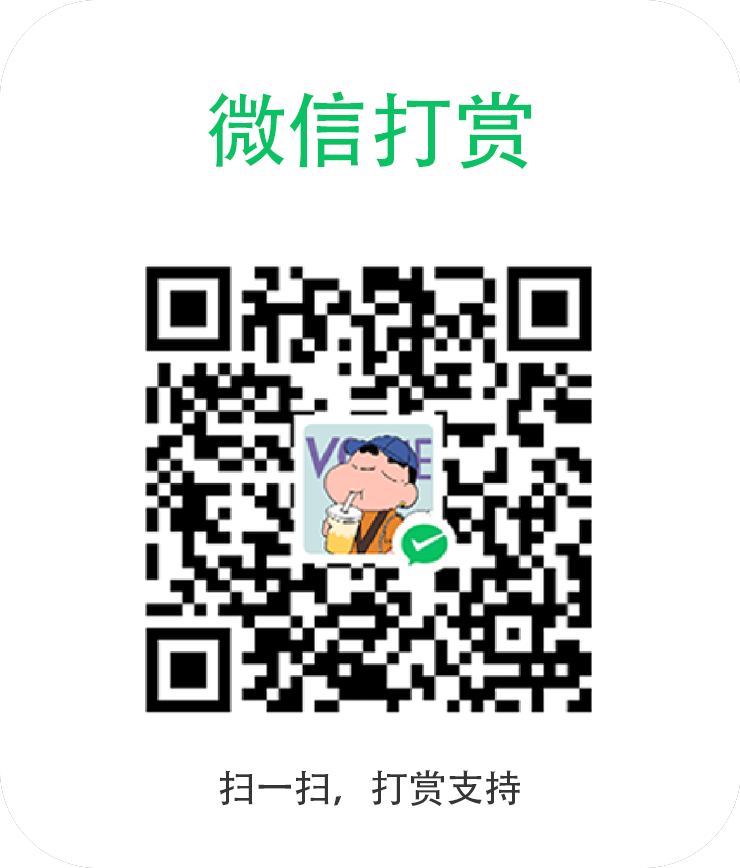
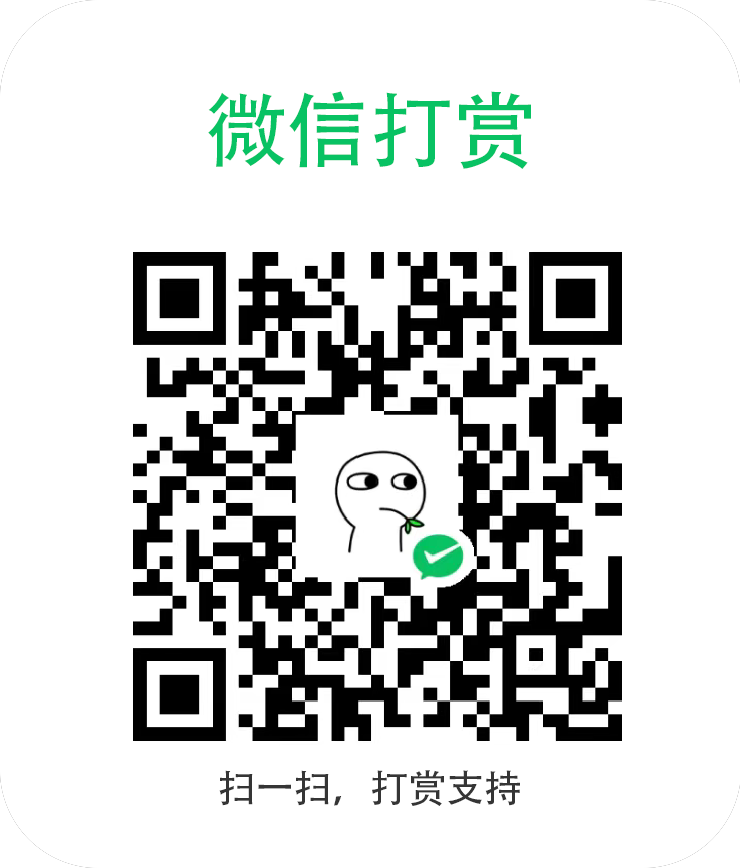
文档完善

Changed region(s): [[0.1554, 0.28, 0.8392, 0.871]]

diff --git a/README.md b/README.md
@@ -1,5 +1,3 @@
-[[ 简体中文 ]](https://sun-panel-doc.enianteam.com/zh_cn/introduce/project.html) |
-[[ English ]](https://sun-panel-doc.enianteam.com/introduce/project.html)
 
 <div align=center>
 
@@ -7,79 +5,61 @@
 
 # Sun-Panel-V2
 
-一个基于Sun-Panel修改的版本,因原版无书签功能导入直接就到首影响速度,所以做了修改,增加了浏览器的导入书签的功能,使其主页和书签功能分开
+一个基于Sun-Panel修改的版本,增加了浏览器的导入书签的功能,使其主页和书签功能分开
 
 Sun-Panel-V2 一个服务器、NAS导航面板、Homepage、浏览器首页、书签。
 
+个人自用版本,后续会持续更新完善,如果你也喜欢建议点亮右上角星星避免后续迷路
 </div>
 
 
 ![](./doc/images/main-dark.png)
-
-
-## 😎 Features
-
-- 🍉 Clean interface, powerful functionality, low resource consumption
-- 🍊 Easy to use, visual operation, zero-code usage
-- 🍠 One-click switch between internal and external network modes
-- 🍵 Supports Docker deployment (compatible with Arm systems)
-- 🎪 Supports multi-account isolation
-- 🎏 Supports viewing system status
-- 🫙 Supports custom JS, CSS
-- 🍻 Simple usage without the need to connect to an external database
-- 🍾 Rich icon styles for free combination, supports [Iconify icon library](https://icon-sets.iconify.design/)
-- 🚁 Supports opening small windows in the webpage (some third-party websites may block this feature)
-
+![](./doc/images/shuqianguanli.png)
+![](./doc/images/ydsy.png)
+![](./doc/images/ydsy2.png)
 ## 🖼 Preview Screenshots
 
-**Various styles, freely combined**
-
-![](./doc/images/icon-small-new.png)
-![](./doc/images/transparent-info.png)
-![](./doc/images/transparent-small.png)
-![](./doc/images/solid-color-info.png)
-![](./doc/images/full-color-small.jpg)
-
-**Built-in small windows**
-
-![](./doc/images/window-ssh.png)
-![](./doc/images/window-xunlei.png)
 
 
+## 部署
+本项目支持 Docker 或其他基于 Docker 的平台部署。<br>
+1.编写docker-compose.yml文件<br>
+2.运行docker-compose up -d<br>
+3.打开 域名/ip:3002<br><br><br>
+账号:admini<br>
+密码:123456
+### docker
 
-## 🐳 Deployment tutorial
-[Deployment Tutorial](https://sun-panel-doc.enianteam.com/usage/quick_deploy.html)
+```yml
+version: "3.2"
 
-## 🍵 Donate
+services:
+  sun-panel:
+    image: 'ghcr.io/75412701/sun-panel-v2:latest'
+    container_name: sun-panel-v2
+    volumes:
+      - ./conf:/app/conf
+      - ./uploads:/app/uploads
+      - ./database:/app/database
+    # - ./runtime:/app/runtime
+    ports:
+      - 3002:3002
+    restart: always
+```
 
-> Open-source development is not easy. If you feel that my project has helped you, you are welcome to [donate](./doc/donate.md) or buy me a cup of tea☕ (please leave your nickname or name in the note if possible). Your support is my motivation, thank you.
+## 🍵 捐赠
 
-
-<a href="https://www.paypal.me/hslrs">
-<img height="60" src="./doc/images/donate/paypal.png" target="_blank"></img>
-</a>
-
-
-|   |   |
-| ------------ | ------------ |
-| <img height="300" src="./doc/images/donate/weixin.png"/> |  <img height="300" src="./doc/images/donate/alipay.png" /> |
-
-## 🏖 Communication group & community
-
-Author：**[红烧猎人](https://blog.enianteam.com/u/sun/content/11)**
-
-[Github Discussions](https://github.com/75412701/sun-panel-v2/discussions)
+> 开源开发并不容易。如果你觉得我的项目对你有所帮助，欢迎你[捐款](./doc/donate.md)或请我喝杯茶☕（如果可能的话，请在备注中留下你的昵称或姓名）。你的支持就是我的动力，谢谢。
 
 
 
-<img src="./doc/images/qq_group_qr2.png"  height="350" />
+<img height="300" src="./doc/images/donate/weixin.png"/>
+
+
 
 ## ❤ Thanks
 
-- [Roc](https://github.com/RocCheng)
-- [jackloves111](https://github.com/jackloves111)
-- [Rock.L](https://github.com/gitlyp)
-
+- [红烧猎人](https://blog.enianteam.com/u/sun/content/11)
 
 ---
 
